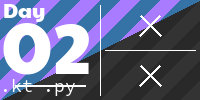
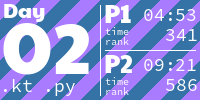
Update image

diff --git a/README.md b/README.md
@@ -4,7 +4,7 @@
 
 <!-- AOC TILES BEGIN -->
 <h1 align="center">
-  2022 - 2 ⭐
+  2022 - 4 ⭐
 </h1>
 <a href="2022/01/01.kt">
   <img src="Media/2022/01.png" width="161px">
